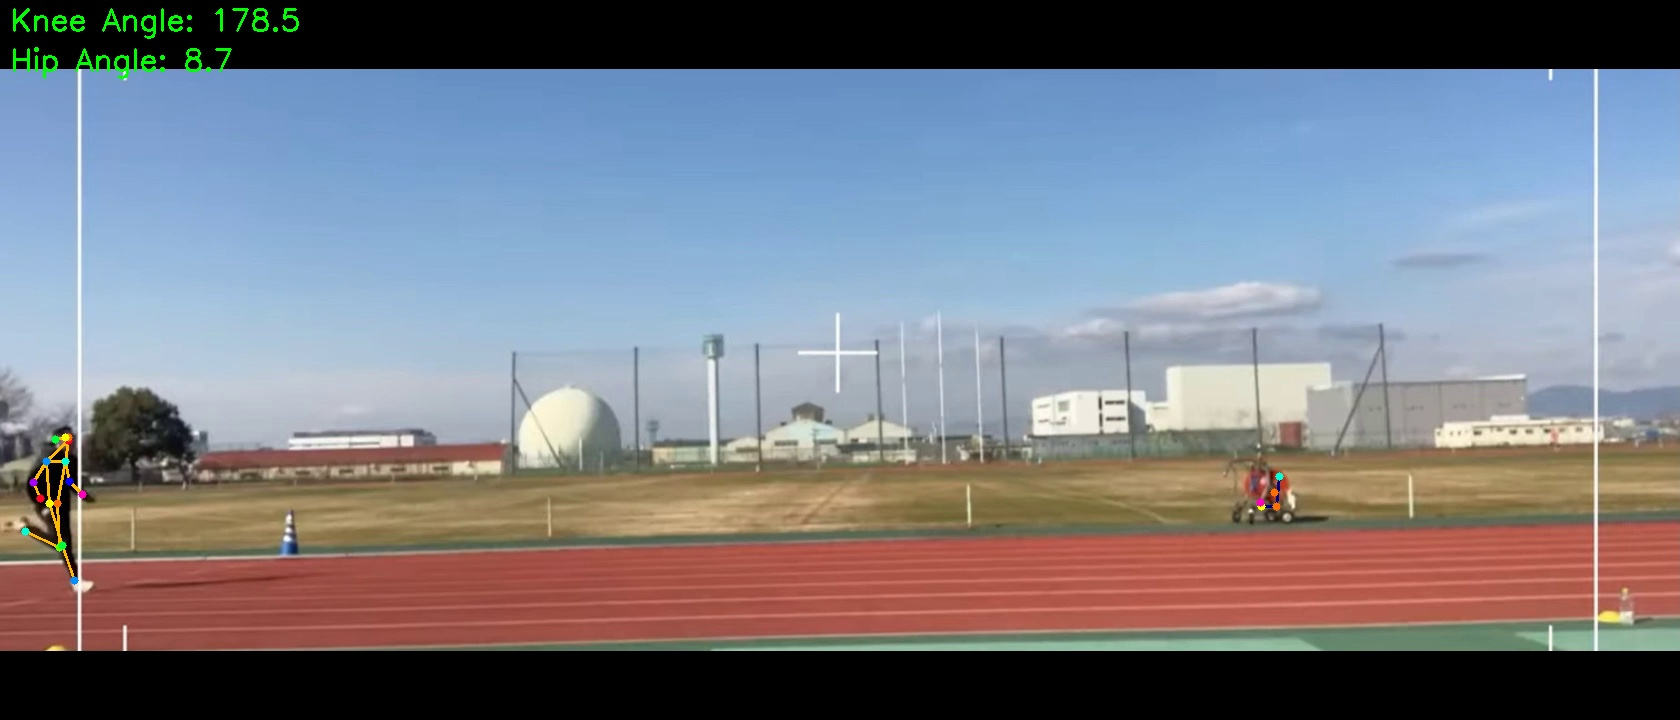
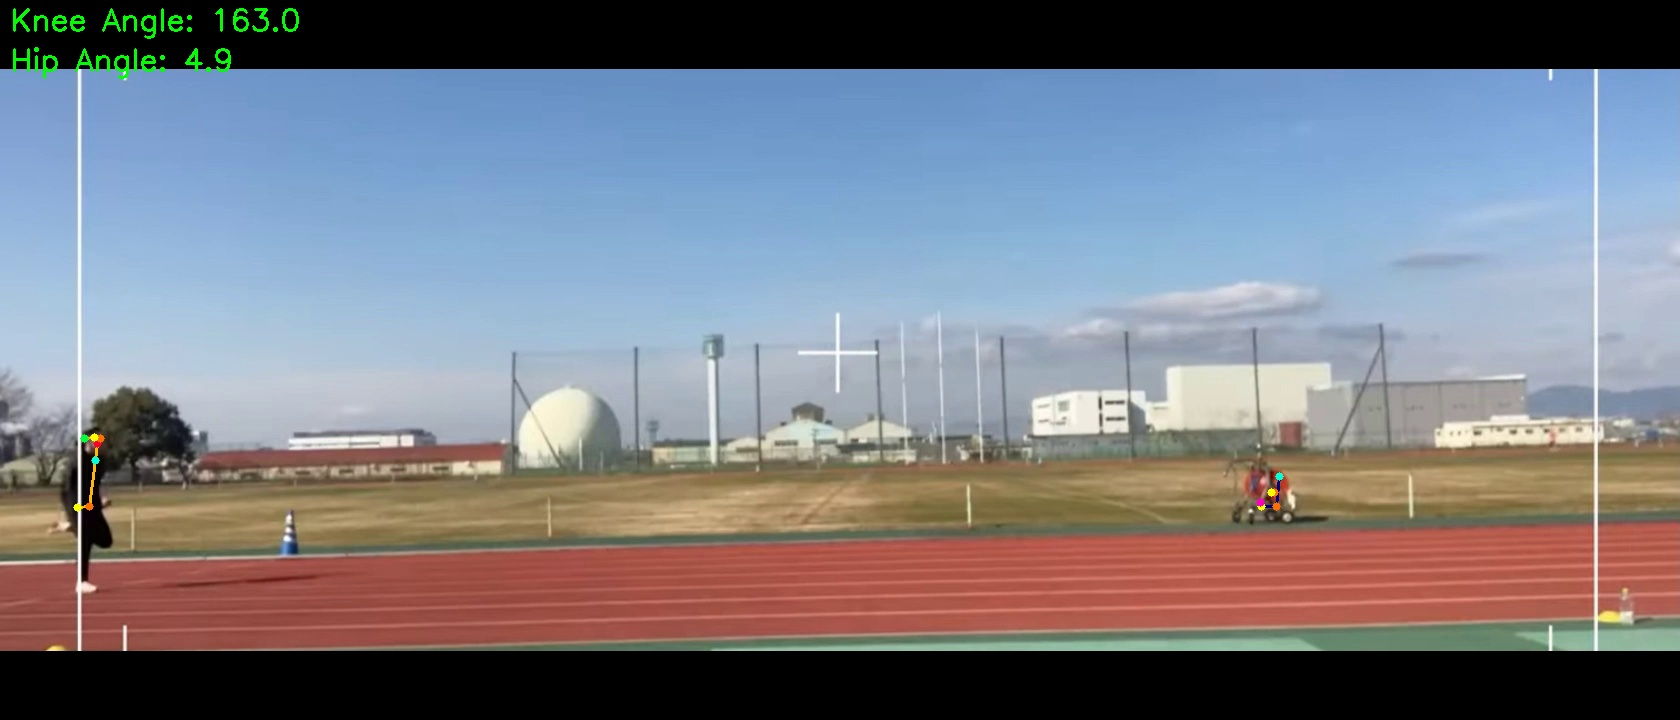
着地と離地の切り取りを少し強化

Changed region(s): [[0.0, 0.5806, 0.0929, 0.825], [0.0929, 0.0, 0.1857, 0.0917]]

diff --git a/scripts/GaitPhaseDetector.py b/scripts/GaitPhaseDetector.py
@@ -63,7 +63,7 @@ import numpy as np
 from collections import deque
 
 class GaitPhaseDetector:
-    def __init__(self, touchdown_angle=100, takeoff_angle=175, angle_tolerance=10):
+    def __init__(self, touchdown_angle=175, takeoff_angle=80, angle_tolerance=10):
         self.touchdown_angle = touchdown_angle
         self.takeoff_angle = takeoff_angle
         self.angle_tolerance = angle_tolerance
@@ -71,6 +71,8 @@ class GaitPhaseDetector:
         self.last_state = None
         self.min_frames_between_detections = 10
         self.frames_since_last_detection = 0
+        self.min_frames_between_detections = 3  # 検出間隔を短縮
+        self.debug = True  # デバッグ用フラグ
         
     def calculate_knee_angle(self, keypoints):
         # COCOフォーマットでのインデックス
@@ -99,27 +101,36 @@ class GaitPhaseDetector:
     def detect_phase_change(self, keypoints):
         self.frames_since_last_detection += 1
         
-        # 膝関節角度を計算
+        if keypoints is None or len(keypoints) < 14:
+            return None, 0
+            
         knee_angle = self.calculate_knee_angle(keypoints)
         
-        # 最小フレーム間隔をチェック
+        # デバッグ用出力
+        if self.debug:
+            print(f"Current knee angle: {knee_angle:.1f}")
+            print(f"Last state: {self.last_state}")
+            print(f"Frames since last: {self.frames_since_last_detection}")
+        
         if self.frames_since_last_detection < self.min_frames_between_detections:
             return None, knee_angle
             
-        # 接地判定（膝角度が約100度）
-        if (abs(knee_angle - self.touchdown_angle) < self.angle_tolerance and 
-            self.last_state != "touchdown"):
-            self.last_state = "touchdown"
-            self.frames_since_last_detection = 0
-            return (self.sequence_number, "touchdown"), knee_angle
-            
-        # 離地判定（膝角度が約180度）
-        elif (abs(knee_angle - self.takeoff_angle) < self.angle_tolerance and 
-              self.last_state != "takeoff"):
+        # 着地判定の条件を微調整
+        knee_range = 20  # 許容範囲を広げる
+        if ((self.takeoff_angle - knee_range <= knee_angle <= self.takeoff_angle + knee_range) and
+            self.last_state != "takeoff"):
             self.last_state = "takeoff"
             self.frames_since_last_detection = 0
-            self.sequence_number += 1
             return (self.sequence_number, "takeoff"), knee_angle
+            
+        # elif (abs(knee_angle - self.touchdown_angle) < self.angle_tolerance and 
+        #       self.last_state != "down"):
+        elif ((self.takeoff_angle - self.angle_tolerance <= knee_angle <= self.takeoff_angle + self.angle_tolerance) and
+            self.last_state != "down"):
+            self.last_state = "down"
+            self.frames_since_last_detection = 0
+            self.sequence_number += 1
+            return (self.sequence_number, "down"), knee_angle
             
         return None, knee_angle
 

diff --git a/misc/utils.py b/misc/utils.py
@@ -11,48 +11,47 @@ def calculate_angles(keypoints):
     keypoints: 検出された関節のキーポイント
     returns: (hip_angle, knee_angle) - 股関節角度と膝関節角度のタプル
     """
-    # COCOフォーマットのキーポイントインデックス
     HIP = 11  # 右股関節
     KNEE = 12 # 右膝
     ANKLE = 13 # 右足首
     
     def get_angle(p1, p2, p3):
         """3点から角度を計算"""
-        import math
+        a = np.array(p1)
+        b = np.array(p2)
+        c = np.array(p3)
         
-        # ベクトルを計算
-        vector1 = [p1[0] - p2[0], p1[1] - p2[1]]
-        vector2 = [p3[0] - p2[0], p3[1] - p2[1]]
+        ba = a - b
+        bc = c - b
         
-        # 内積を計算
-        dot_product = vector1[0] * vector2[0] + vector1[1] * vector2[1]
-        
-        # ベクトルの大きさを計算
-        magnitude1 = math.sqrt(vector1[0]**2 + vector1[1]**2)
-        magnitude2 = math.sqrt(vector2[0]**2 + vector2[1]**2)
-        
-        # 角度を計算（ラジアンから度に変換）
-        cos_angle = dot_product / (magnitude1 * magnitude2)
-        angle = math.degrees(math.acos(max(-1.0, min(1.0, cos_angle))))
-        
-        return angle
+        # cosine_angle = np.dot(ba, bc) / (np.linalg.norm(ba) * np.linalg.norm(bc))
+        # angle = np.degrees(np.arccos(np.clip(cosine_angle, -1.0, 1.0)))
 
-    # 股関節角度を計算（お腹側から脚までの角度）
-    hip_angle = 180 - get_angle(
-        [keypoints[KNEE][0], keypoints[KNEE][1]],  # 膝
-        [keypoints[HIP][0], keypoints[HIP][1]],    # 股関節
-        [keypoints[HIP][0], keypoints[HIP][1]-10]  # 股関節の真上の点
+        # 0除算を防ぐ
+        norm_ba = np.linalg.norm(ba)
+        norm_bc = np.linalg.norm(bc)
+        
+        if norm_ba < 1e-10 or norm_bc < 1e-10:
+            return 0.0
+            
+        cosine_angle = np.dot(ba, bc) / (norm_ba * norm_bc)
+        cosine_angle = np.clip(cosine_angle, -1.0, 1.0)  # 数値安定性のため
+        angle = np.degrees(np.arccos(cosine_angle))
+        return angle
+    
+    hip_angle = get_angle(
+        [keypoints[HIP][0], keypoints[HIP][1]],
+        [keypoints[HIP][0], keypoints[HIP][1]-10],
+        [keypoints[KNEE][0], keypoints[KNEE][1]]
     )
     
-    # 膝関節角度を計算（膝の裏側の角度）
     knee_angle = get_angle(
-        [keypoints[HIP][0], keypoints[HIP][1]],    # 股関節
-        [keypoints[KNEE][0], keypoints[KNEE][1]],  # 膝
-        [keypoints[ANKLE][0], keypoints[ANKLE][1]] # 足首
+        [keypoints[HIP][0], keypoints[HIP][1]],
+        [keypoints[KNEE][0], keypoints[KNEE][1]],
+        [keypoints[ANKLE][0], keypoints[ANKLE][1]]
     )
     
     return hip_angle, knee_angle
-
 
 
 

diff --git a/scripts/live-demo.py b/scripts/live-demo.py
@@ -68,6 +68,11 @@ def main(camera_id, filename, hrnet_m, hrnet_c, hrnet_j, hrnet_weights, hrnet_jo
     else:
         raise ValueError('Unsopported YOLO version.')
 
+    # フレームレートの取得と設定
+    original_fps = video.get(cv2.CAP_PROP_FPS)
+    target_fps = original_fps * 2  # 例: フレームレートを2倍に
+    video.set(cv2.CAP_PROP_FPS, target_fps)
+
     model = SimpleHRNet(
         hrnet_c,
         hrnet_j,
@@ -92,6 +97,16 @@ def main(camera_id, filename, hrnet_m, hrnet_c, hrnet_j, hrnet_weights, hrnet_jo
     )
     save_dir = "gait_images"  # 保存ディレクトリ
     os.makedirs(save_dir, exist_ok=True)
+
+    detection_threshold = 0.1  # 例: しきい値を下げる
+    model.detector_confidence_thresh = detection_threshold
+
+    width = int(video.get(cv2.CAP_PROP_FRAME_WIDTH))
+    height = int(video.get(cv2.CAP_PROP_FRAME_HEIGHT))
+    fps = video.get(cv2.CAP_PROP_FPS)
+    output_path = 'output_pose.mp4'
+    fourcc = cv2.VideoWriter_fourcc(*'mp4v')
+    out = cv2.VideoWriter(output_path, fourcc, fps, (width, height))
 
 
     if not disable_tracking:
@@ -204,14 +219,23 @@ def main(camera_id, filename, hrnet_m, hrnet_c, hrnet_j, hrnet_weights, hrnet_jo
         else:
             cv2.imwrite('frame.png', frame)
 
-        if save_video:
-            if video_writer is None:
-                fourcc = cv2.VideoWriter_fourcc(*video_format)  # video format
-                video_writer = cv2.VideoWriter('output.avi', fourcc, video_framerate, (frame.shape[1], frame.shape[0]))
-            video_writer.write(frame)
-
+        if pts is not None:
+            for person in pts:
+                # キーポイントの描画
+                for i, pt in enumerate(person):
+                    cv2.circle(frame, (int(pt[0]), int(pt[1])), 3, (0, 255, 0), -1)
+                
+                # 骨格線の描画（右足）
+                pairs = [(12, 14), (14, 16)]  # 右股関節→右膝→右足首
+                for pair in pairs:
+                    pt1 = person[pair[0]]
+                    pt2 = person[pair[1]]
+                    cv2.line(frame, (int(pt1[0]), int(pt1[1])), 
+                            (int(pt2[0]), int(pt2[1])), (0, 255, 0), 2)
+        out.write(frame)
     if save_video:
-        video_writer.release()
+        output_video.release()
+    video.release()
 
 
 if __name__ == '__main__':
